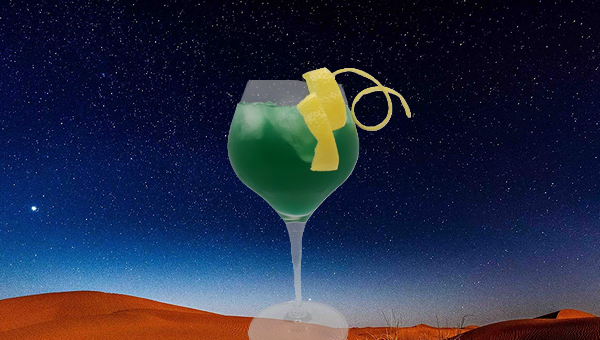
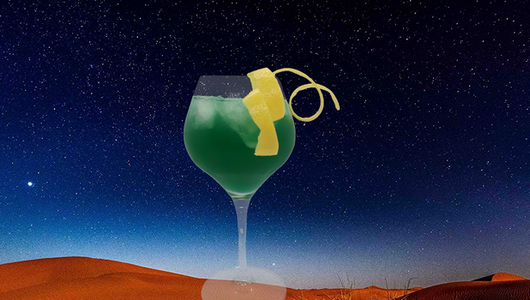
nouvelle illustration

Changed region(s): [[0.3321, 0.18, 0.6943, 1.0]]

diff --git a/_site/page2/index.html b/_site/page2/index.html
@@ -58,7 +58,7 @@
   
   <li>
     <div class="post-card">
-      <a href="/riviera/" class="post-card-image" style="background-image: url( /assets/img/riviera.png )">
+      <a href="/riviera/" class="post-card-image" style="background-image: url( /assets/img/riviera-mini.png )">
       </a>
 
       <div class="post-card-body">
